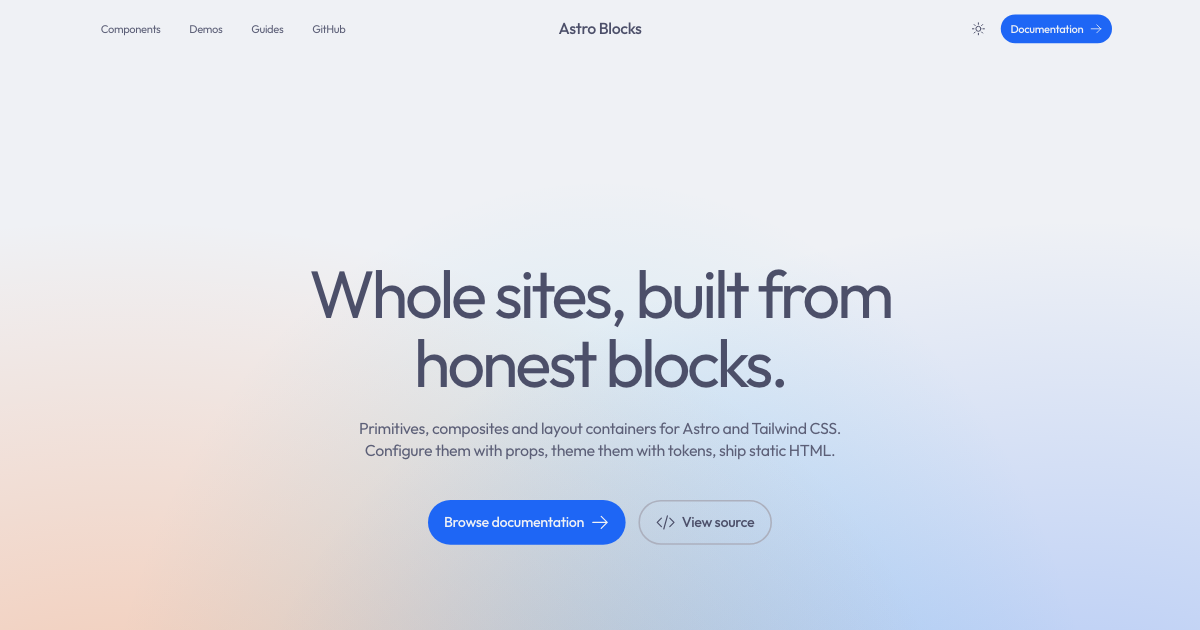
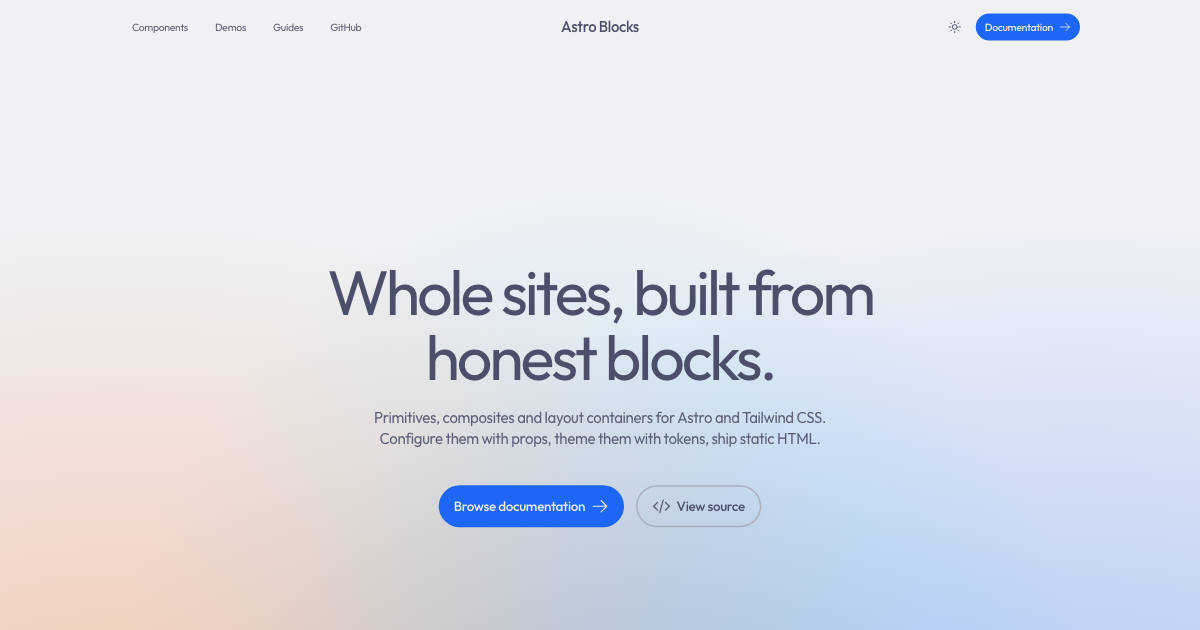
chore(release): v0.1.0

diff --git a/apps/docs/src/styles/global.css b/apps/docs/src/styles/global.css
@@ -11,3 +11,25 @@
 
 @source inline('bg-{red,maroon,peach,yellow,lime,green,emerald,teal,cyan,sky,sapphire,blue,lavender,mauve,pink,flamingo,rosewater,slate,gray,zinc,neutral,stone}{,-50,-100,-200,-300,-400,-500,-600,-700,-800,-900,-950}');
 @source inline('bg-{text,subtext1,subtext0,overlay2,overlay1,overlay0,surface2,surface1,surface0,base,mantle,crust,black,white}');
+
+@layer base {
+  /* The color-scheme meta follows the OS; native scrollbars must follow the chosen theme. */
+  [data-theme='light'] {
+    color-scheme: light;
+  }
+  [data-theme='dark'] {
+    color-scheme: dark;
+  }
+
+  html {
+    scrollbar-color: var(--color-border-emphasis) transparent;
+  }
+
+  [data-docs-sidebar] {
+    scrollbar-width: thin;
+    scrollbar-color: var(--color-border) transparent;
+  }
+  [data-docs-sidebar]:hover {
+    scrollbar-color: var(--color-border-emphasis) transparent;
+  }
+}

diff --git a/apps/docs/tests/browser/select.spec.ts b/apps/docs/tests/browser/select.spec.ts
@@ -101,7 +101,7 @@ for (const colorScheme of ['light', 'dark'] as const) {
 
     test('the native dropdown follows the theme', async ({ page }) => {
       const control = await field(page, 'basic');
-      await expect(control).toHaveCSS('color-scheme', colorScheme === 'dark' ? 'dark' : 'normal');
+      await expect(control).toHaveCSS('color-scheme', colorScheme);
     });
   });
 }

diff --git a/packages/blocks/CHANGELOG.md b/packages/blocks/CHANGELOG.md
@@ -1,0 +1,5 @@
+# Changelog
+
+## 0.1.0 — 2026-11-21
+
+First tagged release. Install it in a site with `github:alfadormx/astro.blocks#v0.1.0&path:packages/blocks` and follow the Installing guide in the docs site for the required icon sets and setup.
